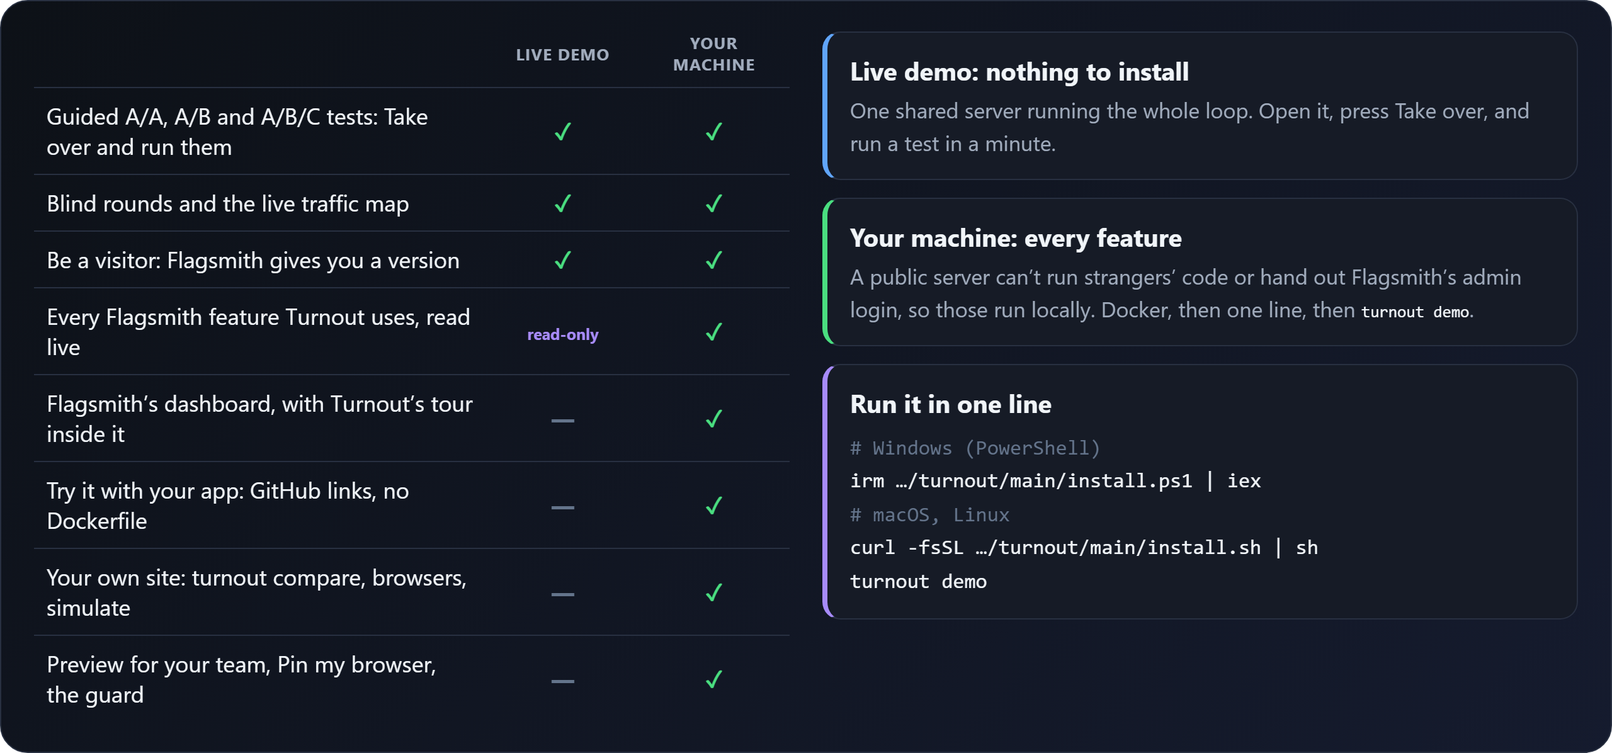
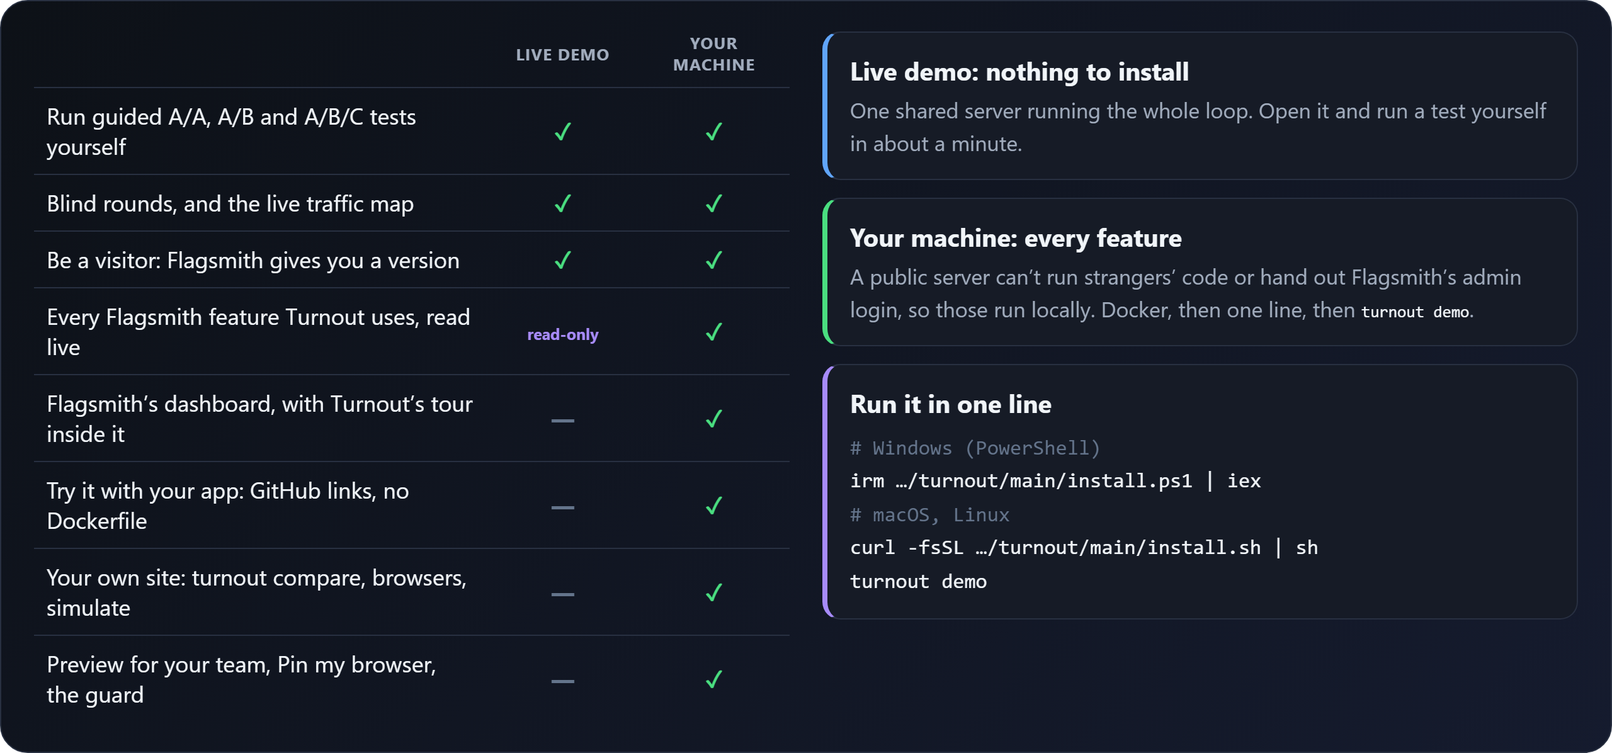
Live demo without an autopilot: one visitor at a time, the notice and tour on a first visit, then the full console
- The autopilot interrupted visitors running a test, so the live demo turns it off (TURNOUT_AUTOPILOT=off). One
  visitor runs a test at a time: while someone does (a step in the last 3 minutes), anyone else is told so and
  can watch; their buttons wait, and the server refuses their steps with the same message.
- A first visit opens the notice, with Take the tour; nothing a visitor reads mentions an autopilot or Take over.
- After your own guided test is decided and checked, a prompt offers the full console (Guided demo off), and the
  Previews | Traffic switch is highlighted.
- The Live line drops its rounds count; the scoreboard says it counts this server's rounds.
- README: one badge, installs (Release downloads: what the one-line installers fetch); images and text without
  Take over or the autopilot.

diff --git a/src/console/ui/menu.js b/src/console/ui/menu.js
@@ -120,8 +120,8 @@ async function wireFlagsmithLink() {
 
 // ---- Server mode's public page: "About this demo" ----------------------------------------------------------------
 // What the shared live demo has, and what runs only on your own machine (and why). The public page (never in a
-// frame: the console embeds the guided demo) shows a one-line bar at the bottom until it's closed, so the demo itself is the
-// first thing anyone sees; the banner and the menu's "About this demo" open the full notice. Local pages never show it.
+// frame: the console embeds the guided demo) opens it once per browser, with the tour one click away; the menu's
+// "About this demo" opens it again. Local pages never show it.
 export const NOTICE_KEY = 'turnout-live-notice-seen';
 const REPO = 'https://github.com/tharunkumardeveloper/turnout';
 const RAW = 'https://raw.githubusercontent.com/tharunkumardeveloper/turnout/main';
@@ -143,9 +143,7 @@ export function liveNotice({ play = PLAY } = {}) {
       el('section', {},
         el('h3', {}, 'On this server'),
         el('ul', {},
-          play
-            ? item('Guided demo on:', 'the autopilot runs a test step by step. Press Take over to run Start, Send shoppers, Ask Flagsmith and Ship yourself.')
-            : item('Guided demo on:', 'the autopilot runs a test step by step: Flagsmith’s results and the decision.'),
+          item('Guided demo on:', 'run an A/A, A/B or A/B/C test yourself, one button at a time: Start, Send shoppers, Ask Flagsmith, Ship.'),
           item('Guided demo off:', 'the live traffic map, each visitor routed by the Flagsmith flag, and Flagsmith’s numbers.'),
           item('Be a visitor:', 'Flagsmith gives you a version of the shop, counted in its own live experiment.'),
           item('Flagsmith features:', 'every Flagsmith feature Turnout uses, with values read live.'))),
@@ -160,8 +158,10 @@ export function liveNotice({ play = PLAY } = {}) {
       el('p', {}, 'Docker running (about 4 GB of memory for it), then one line installs it:'),
       el('pre', {}, el('code', {}, `# Windows (PowerShell)\n${INSTALL.win}\n# macOS, Linux\n${INSTALL.unix}\n\nturnout demo                                    # this demo, every feature on\nturnout compare localhost:3001 localhost:3002   # or your own two versions`))),
     el('div', { class: 'live-actions' },
-      el('a', { class: 'live-btn', href: `${REPO}#quick-start`, target: '_blank', rel: 'noopener' }, 'Setup steps on GitHub ↗'),
-      el('button', { class: 'live-btn live-primary', type: 'button', on: { click: () => dialog.close() } }, 'Explore the live demo'))));
+      el('a', { class: 'live-btn', href: `${REPO}#get-started`, target: '_blank', rel: 'noopener' }, 'Setup steps on GitHub ↗'),
+      el('button', { class: 'live-btn', type: 'button', on: { click: () => dialog.close() } }, 'Explore on my own'),
+      // The console (app.js) starts the tour of whichever view is on.
+      el('button', { class: 'live-btn live-primary', type: 'button', on: { click: () => { dialog.close(); document.dispatchEvent(new CustomEvent('turnout:tour-request')); } } }, 'Take the tour'))));
   return dialog;
 }
 
@@ -178,21 +178,17 @@ function setupLiveNotice(menu) {
     seen = false;
   }
   if (seen) return;
-  // A banner, not a dialog: nothing covers the demo. Closing it (or opening the notice from it) keeps it closed.
-  const remember = () => {
+  // The first visit: what's here, what runs only locally and why, and the tour. Once per browser; the menu's
+  // "About this demo" opens it again.
+  noticeDone = new Promise((resolve) => dialog.addEventListener('close', () => {
     try {
       localStorage.setItem(NOTICE_KEY, '1');
     } catch {
-      /* it shows again next time */
+      /* it opens again next time */
     }
-  };
-  const banner = el('div', { class: 'live-banner', role: 'region', 'aria-label': 'About this live demo' },
-    el('span', { class: 'live-banner-text' },
-      el('b', {}, 'Live demo:'), ' self-hosted Flagsmith 2.291.0. ',
-      el('b', {}, 'Guided demo'), ' shows a test step by step (press Take over to run it); switch it off for the console, where Previews and Traffic switch between the versions’ pages and the live traffic map.'),
-    el('button', { class: 'live-banner-link', type: 'button', on: { click: () => { remember(); dialog.showModal(); } } }, 'What’s here, and what runs only locally'),
-    el('button', { class: 'live-banner-close', type: 'button', 'aria-label': 'Close this note', on: { click: () => { remember(); banner.remove(); } } }, '×'));
-  document.body.append(banner);
+    resolve();
+  }, { once: true }));
+  dialog.showModal();
 }
 
 /** Wires the menu: marks the current page, fills the drop-downs when opened, closes them on a click outside. */

diff --git a/src/console/server.ts b/src/console/server.ts
@@ -143,6 +143,8 @@ export const PUBLIC_BASE = '/judge';
 // What the public view serves: the judge page, its scripts, styles and icon, and three reads.
 const PUBLIC_READS = new Set(['/api/judge/state', '/api/judge/job', '/api/traffic', '/api/state', '/api/flagsmith-map']);
 // Writes from the private console: the autopilot steps aside for a while after one.
+// The public page: one visitor at a time; their turn lasts this long after their last step.
+const PLAYER_QUIET_MS = 3 * 60_000;
 const HUMAN_WRITES = new Set(['/api/judge/run', '/api/ship', '/api/revert', '/api/keep-running', '/api/refresh', '/api/guard']);
 const PUBLIC_ASSET_TYPES = new Set(['.js', '.css', '.svg', '.png']);
 
@@ -330,6 +332,14 @@ export function createConsole(opts: ConsoleOptions): http.Server {
   const lastClick = new Map<string, number>();
   let lastStart = 0;
   let lastPlayer: { who: string; at: number } = { who: '', at: 0 };
+  const visitorOf = (req: http.IncomingMessage) => String(req.headers['x-forwarded-for'] ?? req.socket.remoteAddress ?? '').split(',')[0]!.trim();
+  /** Who is running the public page's test, for this visitor: them, someone else, or nobody (quiet for 3 min). */
+  const playerFor = (req: http.IncomingMessage) => {
+    const active = lastPlayer.who && Date.now() - lastPlayer.at < PLAYER_QUIET_MS;
+    if (!active) return { player: null, playerFreeAt: null };
+    return { player: lastPlayer.who === visitorOf(req) ? 'you' : 'someone', playerFreeAt: new Date(lastPlayer.at + PLAYER_QUIET_MS).toISOString() };
+  };
+
   async function publicPlay(req: http.IncomingMessage, res: http.ServerResponse): Promise<void> {
     if (!judge) return json(res, 404, { error: 'not found' });
     const given = req.headers[TOKEN_HEADER];
@@ -337,15 +347,15 @@ export function createConsole(opts: ConsoleOptions): http.Server {
     const raw = (await readJson(req).catch(() => null)) as Record<string, unknown> | null;
     const action = typeof raw?.action === 'string' ? raw.action : '';
     if (!PLAY_ACTIONS.has(action)) return json(res, 403, { error: 'This step runs only from the console on the server.' });
-    const who = String(req.headers['x-forwarded-for'] ?? req.socket.remoteAddress ?? '').split(',')[0]!.trim();
+    const who = visitorOf(req);
     const now = Date.now();
     if (now - (lastClick.get(who) ?? 0) < 3000) return json(res, 429, { error: 'One step at a time: try again in a few seconds.' });
     if ((action === 'start' || action === 'abc') && now - lastStart < 20_000) return json(res, 429, { error: 'A test just started: give it 20 seconds before starting another.' });
-    // Shared demo: someone else's test in progress isn't restarted under them. Anyone may carry it on (send shoppers,
-    // ask Flagsmith, decide); a new test waits until its visitor has been quiet for 3 minutes.
-    if ((action === 'start' || action === 'abc') && lastPlayer.who && lastPlayer.who !== who && now - lastPlayer.at < 180_000) {
-      const wait = Math.ceil((180_000 - (now - lastPlayer.at)) / 60_000);
-      return json(res, 409, { error: `Someone else is running a test right now. Watch it, or carry it on with the step buttons; a new test can start in about ${wait} min.` });
+    // Shared demo, one visitor at a time: while someone runs a test (a step within the last 3 minutes), nobody else
+    // presses its buttons or starts another over it. They watch, and their turn comes when it's quiet.
+    if (action !== 'take-over' && action !== 'hand-back' && lastPlayer.who && lastPlayer.who !== who && now - lastPlayer.at < PLAYER_QUIET_MS) {
+      const wait = Math.max(1, Math.ceil((PLAYER_QUIET_MS - (now - lastPlayer.at)) / 60_000));
+      return json(res, 409, { error: `Someone else is running a test right now. Watch it here; your turn comes in about ${wait} min.` });
     }
     lastClick.set(who, now);
     if (lastClick.size > 5000) lastClick.clear();
@@ -416,6 +426,7 @@ export function createConsole(opts: ConsoleOptions): http.Server {
         links: { experiment: null, flag: null, shop: state.links.shop, preview: null },
         readOnly: true,
         autopilot: autopilot?.status() ?? null,
+        ...(opts.publicPlay ? playerFor(req) : {}),
       });
     }
     // /judge/v/<build>/demo.js: the page's assets under this start's version (servePublicPage), and the modules they

diff --git a/src/console/ui/demo.js b/src/console/ui/demo.js
@@ -184,6 +184,7 @@ async function run(action, extra = {}) {
     ui.pendingKind = extra.arms ?? null;
     ui.plan = null;
   }
+  if (action === 'ship' || action === 'revert') ui.decidedExp = s?.experiment?.id ?? null; // this browser decided it
   ui.sending = true;
   ui.before = signature(s); // the state before this job, to wait for its effect
   ui.error = '';
@@ -290,7 +291,7 @@ const isBusy = () => ui.job?.status === 'running' || ui.state?.job?.status === '
 function pickKind(k) {
   if (LOCKED) return;
   // The live demo: picking a test means you're driving, so the autopilot steps aside.
-  if (PLAY && M.pilotView(ui.state, Date.now(), mineUntil())?.mode !== 'you') void pilot('take-over');
+  if (PLAY && ui.state?.autopilot?.enabled && M.pilotView(ui.state, Date.now(), mineUntil())?.mode !== 'you') void pilot('take-over');
   ui.kind = k;
   try {
     localStorage.setItem(KIND_KEY, String(k));
@@ -423,7 +424,7 @@ function renderPilot(s) {
   box.dataset.mode = v.mode;
   box.replaceChildren(
     h('p', { class: 'pilot-text', role: 'status' }, v.text),
-    h('button', { class: `btn btn-small ${v.mode === 'you' ? 'btn-quiet' : 'btn-go'}`, type: 'button', disabled: Boolean(ui.pilotBusy), on: { click: () => void pilot(v.button.action) } }, v.button.label));
+    !v.button ? null : h('button', { class: `btn btn-small ${v.mode === 'you' ? 'btn-quiet' : 'btn-go'}`, type: 'button', disabled: Boolean(ui.pilotBusy), on: { click: () => void pilot(v.button.action) } }, v.button.label));
 }
 async function pilot(action) {
   ui.pilotBusy = true;
@@ -470,7 +471,8 @@ function actionBox(m) {
   const wait = a.waitUntil ? Math.max(0, Date.parse(a.waitUntil) - Date.now()) : 0;
   const mins = Math.floor(wait / 60000);
   const secs = String(Math.floor((wait % 60000) / 1000)).padStart(2, '0');
-  const busy = ui.job?.status === 'running' || ui.state?.job?.status === 'running' || ui.sending || Boolean(ui.settle);
+  // Someone else's test on the live demo: theirs to run, so the buttons wait (the strip above says why).
+  const busy = ui.job?.status === 'running' || ui.state?.job?.status === 'running' || ui.sending || Boolean(ui.settle) || ui.state?.player === 'someone';
   const main = h('button', { class: 'btn btn-go', type: 'button', id: 'go', 'data-action': a.action, disabled: wait > 0 || busy, on: { click: () => run(a.action, { arms: a.arms, visitors: a.shoppers }) } },
     ui.sending ? 'Starting…' : ui.settle ? 'Reading Flagsmith…' : wait > 0 ? `Flagsmith allows the next look in ${mins}:${secs}` : a.label);
   const alt = m.alt ? h('button', { class: 'btn btn-quiet', type: 'button', disabled: busy, on: { click: () => run(m.alt.action) } }, m.alt.label) : null;
@@ -526,6 +528,11 @@ function outcomeBox(m) {
   // Only this test's check: one started after its decision (an earlier test's check named another release).
   const decidedAt = (ui.state?.ledger ?? []).filter((e) => e.experimentId === exp).at(-1)?.at ?? null;
   const check = M.verifyText(lastJobs.find((j) => j.action === 'verify' && decidedAt && j.startedAt >= decidedAt));
+  // This browser's own test, decided and checked: the console (around this frame) offers the full view next.
+  if (check?.ok && ui.decidedExp === exp && ui.finishedSent !== exp && window.parent !== window) {
+    ui.finishedSent = exp;
+    window.parent.postMessage({ turnout: 'test-finished' }, location.origin);
+  }
   return h('div', { class: 'outcome', 'data-shipped': String(o.shipped) },
     h('p', { class: 'outcome-title' }, o.title, h('span', { class: 'outcome-sub' }, ` ${o.text}`)),
     changed ? h('dl', { class: 'change' },

diff --git a/src/console/ui/tour-stops.js b/src/console/ui/tour-stops.js
@@ -10,14 +10,14 @@ export const JUDGE_STOPS = [
     target: null,
     title: "Welcome to Turnout's guided demo",
     text: "Turnout puts every new version of an app into a Flagsmith experiment without touching the app's code. This tour walks you through one real test on a demo shop: you click, Flagsmith decides. About three minutes.",
-    readonly: { text: 'Turnout puts every new version of an app into a Flagsmith experiment, without touching its code. This public page runs real Flagsmith experiments on a demo shop by itself, with simulated shoppers. Under two minutes.' },
+    readonly: { text: 'Turnout puts every new version of an app into a Flagsmith experiment, without touching its code. This public page runs real Flagsmith experiments on a demo shop, with simulated shoppers, and you press the buttons. Under two minutes.' },
   },
   {
     target: '#kinds',
     click: '#kinds .kind',
     title: 'Pick the kind of test',
     text: 'Click A/B/C to compare two new versions with the current one (or A/B for one, or A/A for two identical copies: a fairness check). Nothing starts yet: first you see what it will compare.',
-    readonly: { click: undefined, title: 'The kind of test', text: 'A/A: the same version twice, a check that the split is fair. A/B: one new version against A. A/B/C: two at once. On this public page the autopilot picks the test.' },
+    readonly: { click: undefined, title: 'The kind of test', text: 'A/A: the same version twice, a check that the split is fair. A/B: one new version against A. A/B/C: two at once. Pick one to preview it; nothing starts until Start.' },
   },
   {
     target: '#versions-panel',
@@ -31,7 +31,7 @@ export const JUDGE_STOPS = [
     action: 'start',
     title: 'Start the test',
     text: () => `Click “${goLabel()}”. Turnout creates the experiment in Flagsmith and the flag starts splitting shoppers between the versions.`,
-    readonly: { click: undefined, action: undefined, target: '#steps-panel', title: 'Four steps, run by the autopilot', text: 'Start the test, send shoppers, ask Flagsmith, decide. Here the autopilot runs each step by itself; the line in the current step says what comes next.' },
+    readonly: { click: undefined, action: undefined, target: '#steps-panel', title: 'Four steps, one button each', text: 'Start the test, send shoppers, ask Flagsmith, decide: the green button in the current step does the next one. If someone else is running a test, the note above the steps says so, and your turn comes after theirs.' },
   },
   {
     target: ['#go', '#steps-panel'],
@@ -124,7 +124,7 @@ export const CONSOLE_STOPS = [
     target: '#actions',
     title: 'Decide',
     text: 'Ship the winner or revert: each shows the exact Flagsmith calls first and asks you to confirm. The pre-selected version is the best one that passes every safety check.',
-    readonly: { text: 'On this public page the autopilot decides, by the same rules: ship the best version that passes every safety check, or revert. The private console has the buttons.' },
+    readonly: { text: 'On this public page you decide in the Guided demo, by the same rules: ship the best version that passes every safety check, or roll back.' },
   },
   {
     target: '#results',

diff --git a/src/console/ui/demo-model.js b/src/console/ui/demo-model.js
@@ -639,7 +639,7 @@ export function blindView(s) {
   const b = s?.blind;
   if (!b?.enabled) return null;
   const sc = b.score ?? { rounds: 0, right: 0, wrong: 0, noCall: 0 };
-  const score = sc.rounds ? `Scoreboard: Flagsmith's call was right in ${sc.right} of ${sc.rounds} blind rounds${sc.noCall ? ` (${sc.noCall} where it wasn't sure yet)` : ''}${sc.wrong ? `, wrong in ${sc.wrong}` : ''}.` : 'Scoreboard: no blind round decided yet.';
+  const score = sc.rounds ? `Scoreboard on this server: Flagsmith's call was right in ${sc.right} of ${sc.rounds} blind rounds${sc.noCall ? ` (${sc.noCall} where it wasn't sure yet)` : ''}${sc.wrong ? `, wrong in ${sc.wrong}` : ''}.` : 'Scoreboard: no blind round decided yet.';
   if (!b.round || b.round.hidden) return { tone: 'wait', title: 'Blind round', text: 'The true order rates were drawn at random and stay hidden until the decision: the new version may be better, worse or the same. Flagsmith has to find out.', score };
   const r = b.round.round;
   const verdict = r.outcome === 'right' ? 'Flagsmith got it right' : r.outcome === 'wrong' ? 'Flagsmith got it wrong' : "Flagsmith wasn't sure yet (no call)";
@@ -651,6 +651,12 @@ export function blindView(s) {
  * it back or stop clicking for a while. Null where there's no autopilot (on your machine).
  */
 export function pilotView(s, nowMs = Date.now(), mineUntil = 0) {
+  // One visitor at a time (the server says who): someone else's test is theirs to finish.
+  if (s?.player === 'someone') {
+    const free = Date.parse(s.playerFreeAt ?? '');
+    const mins = Number.isFinite(free) ? Math.max(1, Math.ceil((free - nowMs) / 60_000)) : 3;
+    return { mode: 'other', text: `Someone else is running a test right now. Watch it here: your turn comes when they’re done, in about ${mins} min.`, button: null };
+  }
   const ap = s?.autopilot;
   if (!ap?.enabled) return null;
   const until = Date.parse(ap.pausedUntil ?? '');
@@ -689,14 +695,12 @@ export function agoText(iso, nowMs = Date.now()) {
   return hours < 48 ? `${hours} h ago` : `${Math.round(hours / 24)} days ago`;
 }
 
-/** Proof that this is running now, not a recording: Flagsmith's version, when it last computed results, recent rounds. */
+/** Proof that this is running now, not a recording: Flagsmith's version and when it last computed results. */
 export function liveLine(s, nowMs = Date.now()) {
   const parts = [];
   if (s?.flagsmithVersion) parts.push(`Flagsmith ${s.flagsmithVersion}, self-hosted`);
   const ago = agoText(s?.results?.asOf, nowMs);
   if (ago) parts.push(`results computed by Flagsmith ${ago}`);
-  const n = s?.blind?.last24h;
-  if (typeof n === 'number' && n > 0) parts.push(`${n} blind ${n === 1 ? 'round' : 'rounds'} decided in the last 24 h`);
   return parts.length ? `Live: ${parts.join(' · ')}` : null;
 }
 

diff --git a/src/console/ui/app.js b/src/console/ui/app.js
@@ -1549,7 +1549,28 @@ if (document.querySelector('meta[name="turnout-app"]')) {
 }
 // One page: Guided demo is the switch beside Tour; while it is on, Tour shows the judge view's tour.
 const mode = setupMode();
+// After a guided test of your own: show the rest. Turn Guided demo off, and point at Previews and Traffic.
+window.addEventListener('message', (e) => {
+  if (e.origin !== location.origin || e.data?.turnout !== 'test-finished' || !mode.isOn() || document.getElementById('next-view')) return;
+  const box = h('div', { class: 'next-view', id: 'next-view', role: 'dialog', 'aria-label': 'See the full console' },
+    h('p', { class: 'next-view-title' }, 'Test done. Now see the whole console'),
+    h('p', {}, 'Turn Guided demo off for everything at once: each version’s page (Previews) and every visitor on the live traffic map (Traffic), with Flagsmith’s results beside them.'),
+    h('div', { class: 'next-view-row' },
+      h('button', { class: 'btn btn-primary', type: 'button', onclick: () => { box.remove(); mode.set(false); showSwitch(); } }, 'Show the full console'),
+      h('button', { class: 'btn btn-ghost', type: 'button', onclick: () => box.remove() }, 'Not now')));
+  document.body.append(box);
+});
+/** The Previews | Traffic switch, highlighted for a moment, so it's found. */
+function showSwitch() {
+  const sw = document.querySelector('.map-switch');
+  if (!sw) return;
+  sw.scrollIntoView({ block: 'center', behavior: 'smooth' });
+  sw.classList.add('switch-hint');
+  setTimeout(() => sw.classList.remove('switch-hint'), 9000);
+}
 $('tour-open').addEventListener('click', () => mode.tour() || tour.start());
+// The live demo's notice: "Take the tour" (menu.js).
+document.addEventListener('turnout:tour-request', () => mode.tour() || tour.start());
 // Your app's console (/app) opens straight after a build: no tour on top of it (Tour is one click away).
 // The public page never opens a tour by itself (it landed on top of a page still loading): Tour pulses instead.
 if (READONLY) $('tour-open').classList.add('tour-hint');

diff --git a/test/demo-ui.test.ts b/test/demo-ui.test.ts
@@ -458,8 +458,8 @@ describe('the live line and empty browser rows', () => {
   const now = Date.parse('2026-11-27T10:00:00Z');
   test('Flagsmith version, when it computed results, and recent rounds', () => {
     const s = { flagsmithVersion: '2.291.0', results: { asOf: '2026-11-27T09:56:00Z' }, blind: { last24h: 12 } };
-    assert.equal(M.liveLine(s, now), 'Live: Flagsmith 2.291.0, self-hosted · results computed by Flagsmith 4 min ago · 12 blind rounds decided in the last 24 h');
-    assert.equal(M.liveLine({ blind: { last24h: 1 } }, now), 'Live: 1 blind round decided in the last 24 h');
+    assert.equal(M.liveLine(s, now), 'Live: Flagsmith 2.291.0, self-hosted · results computed by Flagsmith 4 min ago', 'no rounds count');
+    assert.equal(M.liveLine({ blind: { last24h: 1 } }, now), null);
     assert.equal(M.liveLine({}, now), null);
     assert.equal(M.agoText('2026-11-27T09:59:50Z', now), 'just now');
     assert.equal(M.agoText('2026-11-27T07:00:00Z', now), '3 h ago');
@@ -480,6 +480,12 @@ describe("the live demo's driver: the autopilot, or you after Take over", () => 
   const now = Date.parse('2026-11-27T10:00:00Z');
   test('autopilot running: Take over; taken over: hand back, with the time left', () => {
     assert.equal(M.pilotView({}, now), null, 'no autopilot: on your machine');
+    // One visitor at a time: someone else's test, no button, their turn's time left.
+    const busy = M.pilotView({ player: 'someone', playerFreeAt: '2026-11-27T10:02:10Z' }, now);
+    assert.equal(busy.mode, 'other');
+    assert.equal(busy.button, null);
+    assert.match(busy.text, /^Someone else is running a test right now\. Watch it here: your turn comes when they’re done, in about 3 min\.$/);
+    assert.equal(M.pilotView({ player: 'you' }, now), null, 'your own test: no note');
     const running = M.pilotView({ autopilot: { enabled: true, phase: 'waiting', pausedUntil: null } }, now);
     assert.equal(running.mode, 'autopilot');
     assert.equal(running.button.action, 'take-over');

diff --git a/src/console/ui/style.css b/src/console/ui/style.css
@@ -1418,3 +1418,13 @@ body.simple .detail { display: none !important; }
 
 /* "Show: Previews | Traffic" on the traffic card: say it's a switch. */
 .map-switch-label { align-self: center; padding: 0 4px 0 6px; font-size: 11px; font-weight: 700; letter-spacing: .06em; text-transform: uppercase; color: var(--muted); }
+
+/* After a guided test (app.js): the prompt to see the whole console, and the Previews | Traffic switch it points at. */
+.next-view { position: fixed; z-index: 60; top: 64px; right: 16px; width: min(380px, calc(100vw - 32px)); padding: 16px 18px; border-radius: 14px; background: var(--surface); border: 1px solid color-mix(in srgb, #6633ff 40%, var(--border)); box-shadow: 0 18px 48px rgb(2 6 23 / 0.28); animation: next-view-in .25s ease-out; }
+.next-view p { margin: 0 0 8px; font-size: 14px; line-height: 1.5; }
+.next-view-title { font-weight: 800; font-size: 16px !important; }
+.next-view-row { display: flex; gap: 8px; flex-wrap: wrap; margin-top: 6px; }
+@keyframes next-view-in { from { opacity: 0; transform: translateY(-6px); } }
+.switch-hint { animation: switch-hint 1.5s ease-in-out 6; border-radius: 10px; }
+@keyframes switch-hint { 50% { box-shadow: 0 0 0 5px rgb(102 51 255 / 0.45); } }
+@media (prefers-reduced-motion: reduce) { .next-view, .switch-hint { animation: none; } .switch-hint { box-shadow: 0 0 0 3px rgb(102 51 255 / 0.5); } }

diff --git a/test/console-ui.test.ts b/test/console-ui.test.ts
@@ -596,10 +596,13 @@ test("the live demo's notice: public page only, never in a frame, and tours wait
   for (const words of ['On this server', 'Only on your machine, and why', 'never runs strangers’ code', 'admin login can’t be public', 'turnout demo', 'Run it locally']) {
     assert.ok(menu.includes(words), words);
   }
-  // A banner until closed, never a dialog over the demo; the banner and the menu's "About this demo" open the notice.
+  // Once per browser, with the tour one click away; the menu's "About this demo" opens it again.
   assert.match(menu, /localStorage\.setItem\(NOTICE_KEY, '1'\)/);
-  assert.match(menu, /class: 'live-banner'/);
-  assert.doesNotMatch(menu.slice(menu.indexOf('if (seen) return;')), /^  dialog\.showModal\(\);$/m);
+  assert.match(menu.slice(menu.indexOf('if (seen) return;')), /^  dialog\.showModal\(\);$/m);
+  assert.match(menu, /'Take the tour'/);
+  assert.match(read('app.js'), /addEventListener\('turnout:tour-request', \(\) => mode\.tour\(\) \|\| tour\.start\(\)\)/);
+  // No autopilot and no Take over in what a visitor reads: the live demo is theirs to run.
+  assert.doesNotMatch(menu, /autopilot|Take over/);
   // The one-line installs, not git clone.
   assert.ok(menu.includes('install.ps1 | iex') && menu.includes('install.sh | sh') && !menu.includes('git clone'));
   assert.match(menu, /'About this demo'/);

diff --git a/test/judge.test.ts b/test/judge.test.ts
@@ -1218,6 +1218,14 @@ describe('public play (server mode): visitors run the guided demo, nothing else'
     });
     assert.equal(other.status, 409);
     assert.match(((await other.json()) as { error: string }).error, /Someone else is running a test/);
+    // Nor press its buttons: one visitor at a time.
+    const step = await fetch(`${pub}/judge/api/judge/run`, {
+      method: 'POST',
+      headers: { 'content-type': 'application/json', 'x-turnout-console': token, 'x-forwarded-for': '203.0.113.9' },
+      body: JSON.stringify({ action: 'score' }),
+    });
+    assert.equal(step.status, 409);
+    assert.match(((await step.json()) as { error: string }).error, /^Someone else is running a test right now\. Watch it here; your turn comes in about \d+ min\.$/);
   });
 
   test('Take over and hand back reach the gate (404 here: this console runs no autopilot)', async () => {

diff --git a/src/console/ui/mode.js b/src/console/ui/mode.js
@@ -25,7 +25,7 @@ export function setupMode() {
   const sw = $('mode-judge');
   const view = $('judge-view');
   const frame = /** @type {HTMLIFrameElement} */ ($('judge-frame'));
-  if (!sw || !view || meta('turnout-no-judge')) return { isOn: () => false, tour: () => false };
+  if (!sw || !view || meta('turnout-no-judge')) return { isOn: () => false, tour: () => false, set: () => {} };
   sw.hidden = false;
   const params = new URLSearchParams(location.search);
   let stored = null;
@@ -60,6 +60,8 @@ export function setupMode() {
   sw.addEventListener('click', () => set(!on));
   return {
     isOn: () => on,
+    /** Turn Guided demo on or off, as the switch does. */
+    set: (next) => set(next),
     /** The Tour button while Guided demo is on: the judge view's own tour. */
     tour: () => {
       if (!on) return false;

diff --git a/README.md b/README.md
@@ -9,6 +9,7 @@
 
 [![Open in GitHub Codespaces](https://github.com/codespaces/badge.svg)](https://codespaces.new/tharunkumardeveloper/turnout?quickstart=1)
 [![CI](https://github.com/tharunkumardeveloper/turnout/actions/workflows/ci.yml/badge.svg)](https://github.com/tharunkumardeveloper/turnout/actions/workflows/ci.yml)
+[![Installs](https://img.shields.io/github/downloads/tharunkumardeveloper/turnout/total?label=installs&color=6633ff "Downloads of the Release archives, which is what the one-line installers fetch (this includes the author's and reviewers' own test installs)")](https://github.com/tharunkumardeveloper/turnout/releases)
 [![License: BSD-3-Clause](https://img.shields.io/badge/license-BSD--3--Clause-blue)](LICENSE)
 
 </div>
@@ -61,11 +62,11 @@ turnout compare localhost:3001 localhost:3002
 
 ### Live demo or your machine?
 
-The [live demo](https://172-198-62-67.sslip.io) shows the whole loop in a minute with nothing installed: press **Take over** and run a test yourself. **For every feature, run it locally:** a shared public server can't run strangers' code or hand out Flagsmith's admin login.
+The [live demo](https://172-198-62-67.sslip.io) shows the whole loop in a minute with nothing installed: run a test yourself, one button at a time. **For every feature, run it locally:** a shared public server can't run strangers' code or hand out Flagsmith's admin login.
 
 <picture>
   <source media="(prefers-color-scheme: dark)" srcset="docs/images/readme/compare-light.png">
-  <img src="docs/images/readme/compare-dark.png" width="100%" alt="Live demo and your machine both have: guided A/A, A/B and A/B/C tests you can take over, blind rounds and the live traffic map, Be a visitor, and every Flagsmith feature Turnout uses (read-only on the live demo). Only your machine has: Flagsmith's dashboard with Turnout's tour inside it, Try it with your app from GitHub links, turnout compare on your own site with browsers and simulate, and Preview, Pin my browser and the guard. Install: one line, then turnout demo.">
+  <img src="docs/images/readme/compare-dark.png" width="100%" alt="Live demo and your machine both have: guided A/A, A/B and A/B/C tests you run yourself, blind rounds and the live traffic map, Be a visitor, and every Flagsmith feature Turnout uses (read-only on the live demo). Only your machine has: Flagsmith's dashboard with Turnout's tour inside it, Try it with your app from GitHub links, turnout compare on your own site with browsers and simulate, and Preview, Pin my browser and the guard. Install: one line, then turnout demo.">
 </picture>
 
 ## See it
@@ -94,7 +95,7 @@ The same experiment written with the SDK inside the demo shop took **45 lines of
 
 <picture>
   <source media="(prefers-color-scheme: dark)" srcset="docs/images/readme/features-light.png">
-  <img src="docs/images/readme/features-dark.png" width="100%" alt="Run a test: turnout compare on URLs, images or git branches; Try it with your app from GitHub links; A/A, A/B and A/B/C. Measure: the goal from any HTTP request, server speed and errors, page speed in real browsers, bots never counted. Decide: Flagsmith's Bayesian result as returned; ships at 95% only if the interval clears zero; safety checks and how many more visitors. Release: Ship or Revert in one flag change, a preview segment, Pin my browser, Feature Health. See it: live traffic map, guided demo and tours, a 28-check setup check, every Flagsmith feature read live. Automate: a GitHub Action with a PR comment, an agent skill, server mode with an autopilot, turnout deploy. Install: one line on Windows, macOS and Linux, Codespaces, a GHCR image, turnout uninstall. Prove it: blind rounds, simulated shoppers and real Chrome visits, the Experiment Doctor with SRM.">
+  <img src="docs/images/readme/features-dark.png" width="100%" alt="Run a test: turnout compare on URLs, images or git branches; Try it with your app from GitHub links; A/A, A/B and A/B/C. Measure: the goal from any HTTP request, server speed and errors, page speed in real browsers, bots never counted. Decide: Flagsmith's Bayesian result as returned; ships at 95% only if the interval clears zero; safety checks and how many more visitors. Release: Ship or Revert in one flag change, a preview segment, Pin my browser, Feature Health. See it: live traffic map, guided demo and tours, a 28-check setup check, every Flagsmith feature read live. Automate: a GitHub Action with a PR comment, an agent skill, server mode with HTTPS, turnout deploy. Install: one line on Windows, macOS and Linux, Codespaces, a GHCR image, turnout uninstall. Prove it: blind rounds, simulated shoppers and real Chrome visits, the Experiment Doctor with SRM.">
 </picture>
 
 Every feature, one line each: [FEATURES.md](FEATURES.md). Every command: [docs/CLI.md](docs/CLI.md).
